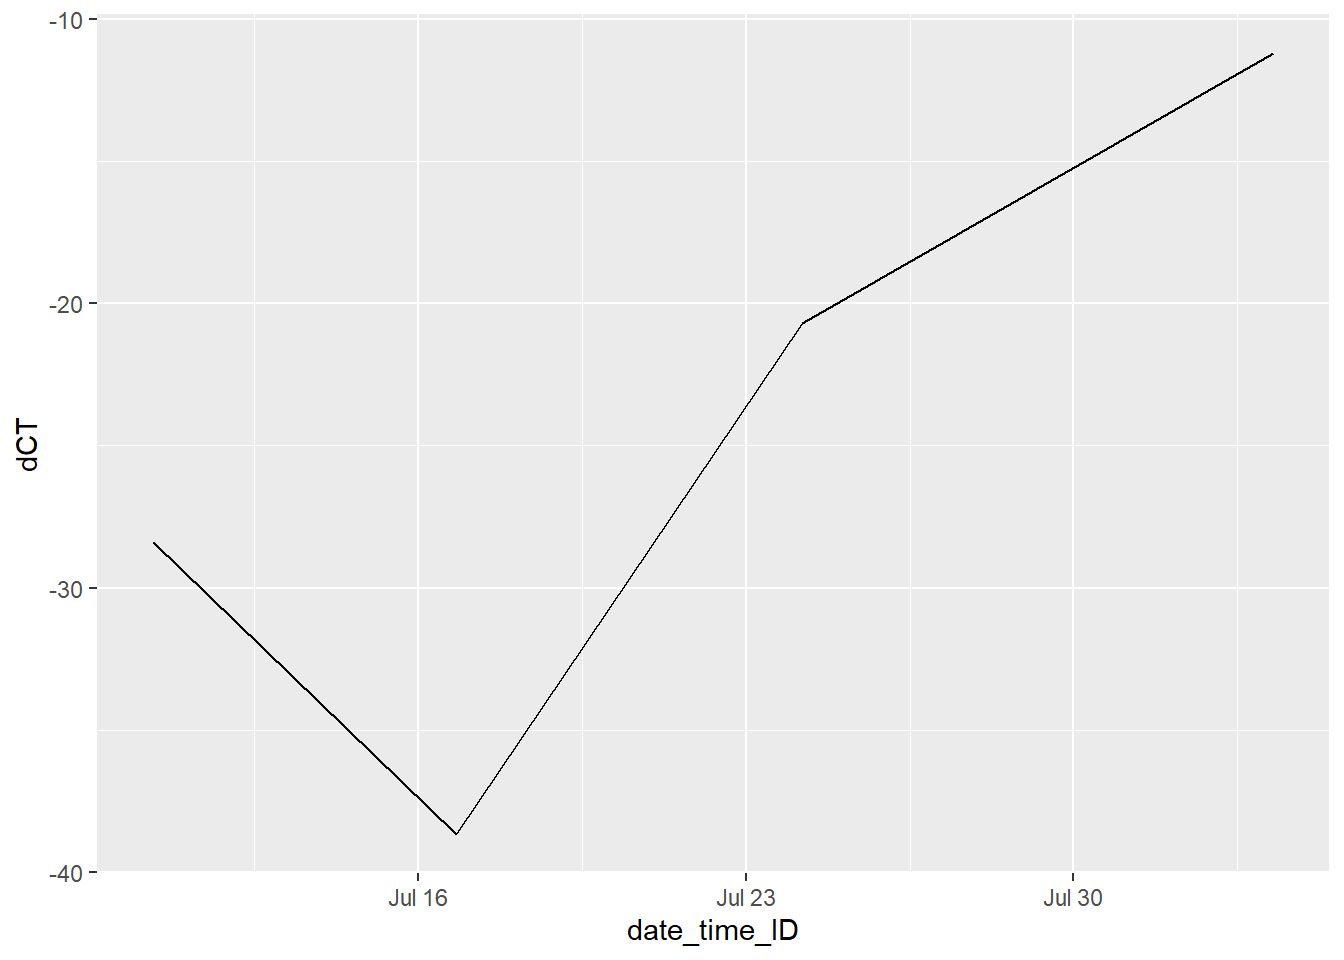
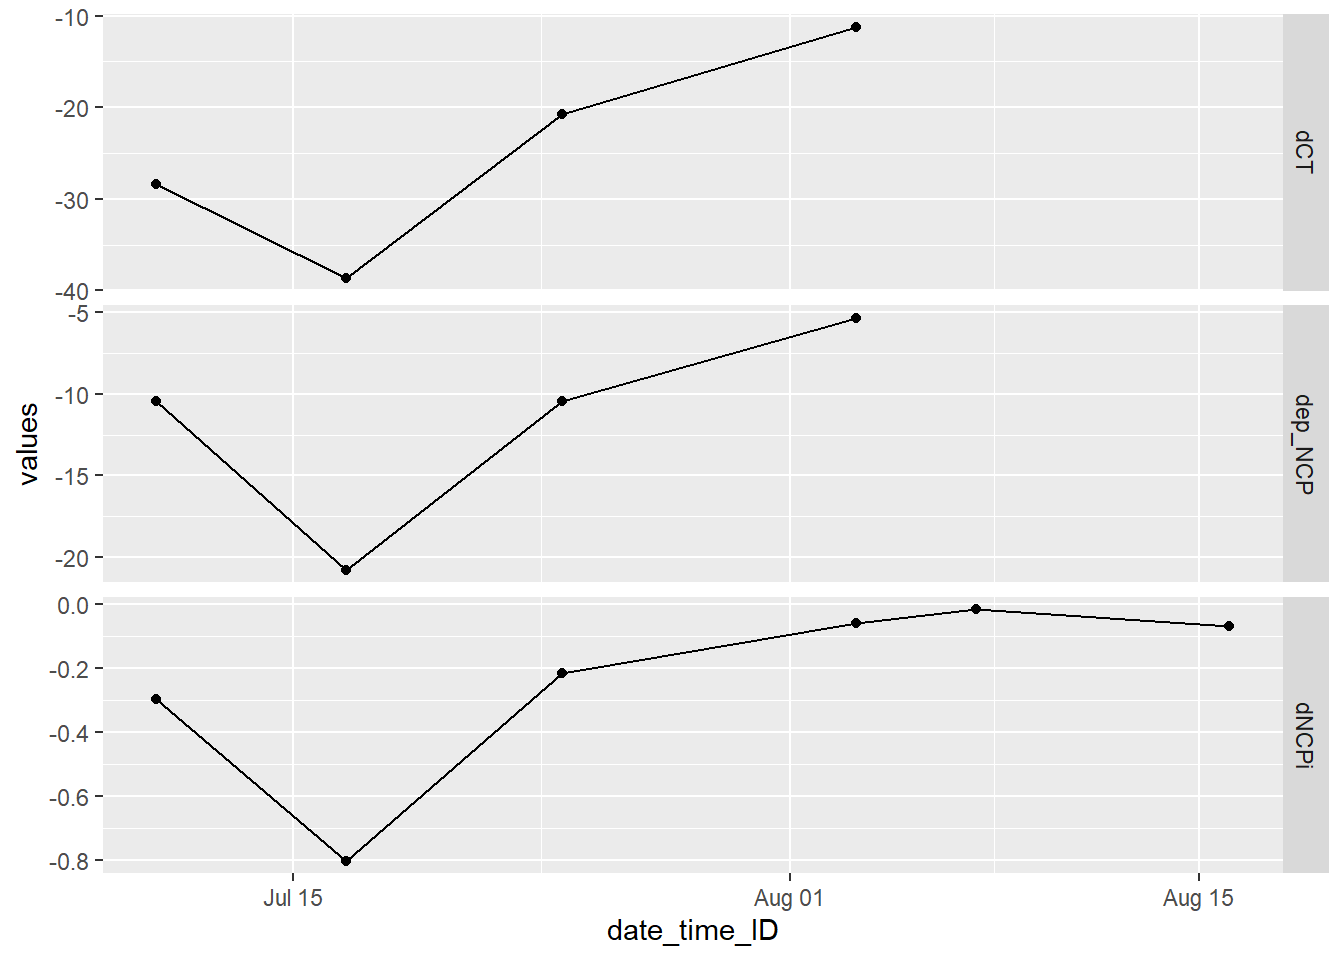
Build site.

diff --git a/docs/MLD.html b/docs/MLD.html
@@ -539,10 +539,10 @@ This reproducible <a href="http://rmarkdown.rstudio.com">R Markdown</a> analysis
 <div class="panel panel-default">
 <div class="panel-heading">
 <p class="panel-title">
-<a data-toggle="collapse" data-parent="#workflowr-checks" href="#strongRepositoryversionstrongahrefhttpsgithubcomjensdanielmuellerBloomSailtree905eb1f969d2908f7f1e73b790429d529717ab47targetblank905eb1fa"> <span class="glyphicon glyphicon-ok text-success" aria-hidden="true"></span> <strong>Repository version:</strong> <a href="https://github.com/jens-daniel-mueller/BloomSail/tree/905eb1f969d2908f7f1e73b790429d529717ab47" target="_blank">905eb1f</a> </a>
+<a data-toggle="collapse" data-parent="#workflowr-checks" href="#strongRepositoryversionstrongahrefhttpsgithubcomjensdanielmuellerBloomSailtree29003edfae71aabe351592aff0417a00e511b2a7targetblank29003eda"> <span class="glyphicon glyphicon-ok text-success" aria-hidden="true"></span> <strong>Repository version:</strong> <a href="https://github.com/jens-daniel-mueller/BloomSail/tree/29003edfae71aabe351592aff0417a00e511b2a7" target="_blank">29003ed</a> </a>
 </p>
 </div>
[2 lines of base64/hex data omitted]
 <div class="panel-body">
 <p>
 Great! You are using Git for version control. Tracking code development and connecting the code version to the results is critical for reproducibility. The version displayed above was the version of the Git repository at the time these results were generated. <br><br> Note that you need to be careful to ensure that all relevant files for the analysis have been committed to Git prior to generating the results (you can use <code>wflow_publish</code> or <code>wflow_git_commit</code>). workflowr only checks the R Markdown file, but you know if there are other scripts or data files that it depends on. Below is the status of the Git repository when the results were generated:
@@ -559,9 +559,6 @@ Ignored files:
 
 Untracked files:
     Untracked:  output/Plots/MLD/
-
-Unstaged changes:
-    Modified:   analysis/_site.yml
 
 </code></pre>
 <p>
@@ -593,18 +590,23 @@ library(marelac)</code></pre>
 </div>
 <div id="mixed-layer-depth" class="section level1">
 <h1><span class="header-section-number">2</span> Mixed layer depth</h1>
+<div id="calculation" class="section level2">
+<h2><span class="header-section-number">2.1</span> Calculation</h2>
+<p>Seawater density Rho was determined from S, T, and p according to TEOS-10.</p>
 <pre class="r"><code>df &lt;- df %&gt;% 
   mutate(rho = swSigma(salinity = sal, temperature = tem, pressure = dep/10))
 
  # seacarb = rho(S = sal, T = tem, P = pres),
  # marelac = sw_dens(S = sal, t = tem, p = pres + 1, method = &quot;Gibbs&quot;)</code></pre>
+<p>Mixed layer depth (MLD) was determined based on the difference between density at the surface and at depth, for a range of density criteria</p>
 <pre class="r"><code># density criterion
 
 df &lt;- expand_grid(df, rho_lim = c(0.1,0.2,0.5))
 
 df &lt;- df %&gt;% 
   group_by(ID, date_time_ID, station, rho_lim) %&gt;% 
-  mutate(d_rho = rho - min(rho)) %&gt;% 
+  arrange(dep) %&gt;% 
+  mutate(d_rho = rho - first(rho)) %&gt;% 
   mutate(layer = if_else(d_rho &gt; rho_lim, &quot;deep&quot;, &quot;surface&quot;)) %&gt;% 
   ungroup()
   
@@ -615,6 +617,9 @@ MLD &lt;- df  %&gt;%
   ungroup()
 
 df &lt;- full_join(df, MLD)</code></pre>
+</div>
+<div id="density-profiles" class="section level2">
+<h2><span class="header-section-number">2.2</span> Density profiles</h2>
 <pre class="r"><code>df %&gt;% 
   filter(dep &lt; 30) %&gt;% 
   arrange(dep) %&gt;% 
@@ -625,6 +630,15 @@ df &lt;- full_join(df, MLD)</code></pre>
   scale_y_reverse()+
   scale_color_brewer(palette = &quot;Set1&quot;, direction = -1)+
   facet_grid(ID~station)</code></pre>
+<div class="figure" style="text-align: center">
+<img src="figure/MLD.Rmd/plot_density_profiles-1.png" alt="Overview density profiles at stations (P01-P14) and cruise dates (ID). Horizontal lines indicate determined MLD" width="672" />
+<p class="caption">
+Overview density profiles at stations (P01-P14) and cruise dates (ID). Horizontal lines indicate determined MLD
+</p>
+</div>
+</div>
+<div id="timeseries-plot" class="section level2">
+<h2><span class="header-section-number">2.3</span> Timeseries plot</h2>
 <pre class="r"><code>MLD_sum &lt;- MLD %&gt;% 
   select(-station) %&gt;% 
   group_by(ID, date_time_ID, rho_lim)%&gt;%
@@ -638,7 +652,7 @@ MLD_sum %&gt;%
   geom_point(aes(date_time_ID, mean))+
   labs(x=&quot;Mean transect date&quot;, y=&quot;Mixed layer depth [m]&quot;)+
   ylim(0,30)+
-  facet_wrap(~rho_lim)</code></pre>
+  facet_grid(rho_lim~.)</code></pre>
 <p><img src="figure/MLD.Rmd/plot_MLD_timeseries-1.png" width="672" style="display: block; margin: auto;" /></p>
 <p>Rho, S, and T profiles were plotted individually <a href="https://github.com/jens-daniel-mueller/BloomSail/tree/master/output/Plots/MLD/profiles_MLD_individual.pdf" target="_blank">pdf here</a>.</p>
 <pre class="r"><code>df_long &lt;- df %&gt;% 
@@ -683,6 +697,7 @@ dev.off()
 
 rm(i_ID, i_station)</code></pre>
 </div>
+</div>
 <div id="ncp-penetration-depth" class="section level1">
 <h1><span class="header-section-number">3</span> NCP penetration depth</h1>
 <pre class="r"><code>CT_ts &lt;-
@@ -699,20 +714,12 @@ CT_conc_surf &lt;-
   group_by(ID, date_time_ID) %&gt;% 
   summarise(dCT = mean(diff_value))
 
-CT_conc_surf %&gt;% 
-  ggplot(aes(date_time_ID, dCT))+
-  geom_path()</code></pre>
-<p><img src="figure/MLD.Rmd/NCP_penetration_depth-1.png" width="672" style="display: block; margin: auto;" /></p>
-<pre class="r"><code>NCP_integ &lt;- CT_ts %&gt;% 
+NCP_integ &lt;- CT_ts %&gt;% 
   filter(sign == &quot;neg&quot;) %&gt;% 
   group_by(ID, date_time_ID) %&gt;% 
   summarise(dNCPi = sum(dCT))
 
-NCP_integ %&gt;% 
-  ggplot(aes(date_time_ID, dNCPi))+
-  geom_path()</code></pre>
-<p><img src="figure/MLD.Rmd/NCP_penetration_depth-2.png" width="672" style="display: block; margin: auto;" /></p>
-<pre class="r"><code>CT &lt;- full_join(CT_conc_surf, NCP_integ)
+CT &lt;- full_join(CT_conc_surf, NCP_integ)
 
 CT &lt;- CT %&gt;% 
   mutate(dep_NCP = -(dNCPi/dCT)*1e3)
@@ -725,7 +732,7 @@ CT_long %&gt;%
   geom_path()+
   geom_point()+
   facet_grid(parameter~., scales = &quot;free_y&quot;)</code></pre>
-<p><img src="figure/MLD.Rmd/NCP_penetration_depth-3.png" width="672" style="display: block; margin: auto;" /></p>
+<p><img src="figure/MLD.Rmd/NCP_penetration_depth-1.png" width="672" style="display: block; margin: auto;" /></p>
 <br>
 <p>
 <button type="button" class="btn btn-default btn-workflowr btn-workflowr-sessioninfo" data-toggle="collapse" data-target="#workflowr-sessioninfo" style="display: block;">
@@ -757,21 +764,21 @@ other attached packages:
 [13] tibble_2.1.3    ggplot2_3.3.0   tidyverse_1.3.0
 
 loaded via a namespace (and not attached):
- [1] tidyselect_0.2.5 xfun_0.10        haven_2.2.0      lattice_0.20-35 
- [5] colorspace_1.4-1 vctrs_0.2.0      generics_0.0.2   htmltools_0.4.0 
- [9] yaml_2.2.0       rlang_0.4.5      later_1.0.0      pillar_1.4.2    
-[13] withr_2.1.2      glue_1.3.1       DBI_1.0.0        dbplyr_1.4.2    
-[17] modelr_0.1.5     readxl_1.3.1     lifecycle_0.1.0  munsell_0.5.0   
-[21] gtable_0.3.0     workflowr_1.6.0  cellranger_1.1.0 rvest_0.3.5     
-[25] evaluate_0.14    labeling_0.3     knitr_1.26       httpuv_1.5.2    
-[29] broom_0.5.3      Rcpp_1.0.2       promises_1.1.0   backports_1.1.5 
-[33] scales_1.0.0     jsonlite_1.6     fs_1.3.1         hms_0.5.2       
-[37] digest_0.6.22    stringi_1.4.3    grid_3.5.0       rprojroot_1.3-2 
-[41] here_0.1         cli_1.1.0        tools_3.5.0      magrittr_1.5    
-[45] crayon_1.3.4     pkgconfig_2.0.3  zeallot_0.1.0    xml2_1.2.2      
-[49] reprex_0.3.0     lubridate_1.7.4  rstudioapi_0.10  assertthat_0.2.1
-[53] rmarkdown_2.0    httr_1.4.1       R6_2.4.0         nlme_3.1-137    
-[57] git2r_0.26.1     compiler_3.5.0  </code></pre>
+ [1] Rcpp_1.0.2         lubridate_1.7.4    here_0.1           lattice_0.20-35   
+ [5] assertthat_0.2.1   zeallot_0.1.0      rprojroot_1.3-2    digest_0.6.22     
+ [9] R6_2.4.0           cellranger_1.1.0   backports_1.1.5    reprex_0.3.0      
+[13] evaluate_0.14      highr_0.8          httr_1.4.1         pillar_1.4.2      
+[17] rlang_0.4.5        readxl_1.3.1       rstudioapi_0.10    rmarkdown_2.0     
+[21] labeling_0.3       munsell_0.5.0      broom_0.5.3        compiler_3.5.0    
+[25] httpuv_1.5.2       modelr_0.1.5       xfun_0.10          pkgconfig_2.0.3   
+[29] htmltools_0.4.0    tidyselect_0.2.5   workflowr_1.6.0    crayon_1.3.4      
+[33] dbplyr_1.4.2       withr_2.1.2        later_1.0.0        grid_3.5.0        
+[37] nlme_3.1-137       jsonlite_1.6       gtable_0.3.0       lifecycle_0.1.0   
+[41] DBI_1.0.0          git2r_0.26.1       magrittr_1.5       scales_1.0.0      
+[45] cli_1.1.0          stringi_1.4.3      fs_1.3.1           promises_1.1.0    
+[49] xml2_1.2.2         generics_0.0.2     vctrs_0.2.0        RColorBrewer_1.1-2
+[53] tools_3.5.0        glue_1.3.1         hms_0.5.2          yaml_2.2.0        
+[57] colorspace_1.4-1   rvest_0.3.5        knitr_1.26         haven_2.2.0       </code></pre>
 </div>
 </div>
 
